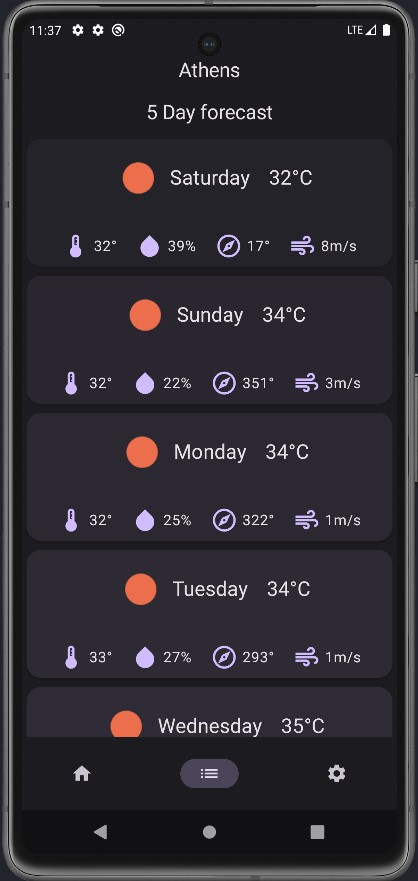
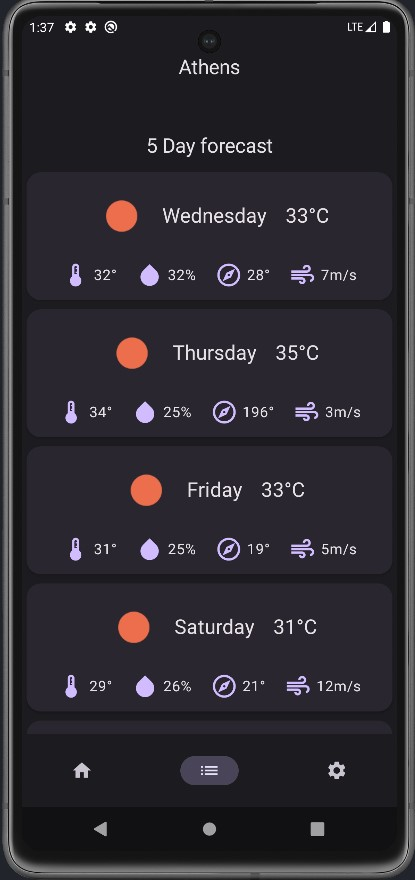
Minor UI changes to Forecast

diff --git a/app/src/main/java/com/example/weatherly/MainActivity.kt b/app/src/main/java/com/example/weatherly/MainActivity.kt
@@ -293,7 +293,6 @@ fun App(dataStore: DataStore, darkModeState: Boolean, cityState: String) {
                                     .zIndex(1f),
                                 backgroundColor = MaterialTheme.colorScheme.primary,
                                 contentColor = MaterialTheme.colorScheme.onPrimary)
-                            Spacer(modifier = Modifier.height(20.dp))
                             InputText(input = textFieldInput, onValueChange = { textFieldInput = it }) {
                                 runBlocking {
                                     dataStore.writeCity(textFieldInput)
@@ -399,14 +398,14 @@ fun Forecast(data: WeatherApi.ForecastJsonData, state: PullRefreshState, refresh
                 .zIndex(1f),
             backgroundColor = MaterialTheme.colorScheme.primary,
             contentColor = MaterialTheme.colorScheme.onPrimary)
-        Spacer(modifier = Modifier.weight(1f))
+        //Spacer(modifier = Modifier.weight(1f))
         Text("5 Day forecast", color = MaterialTheme.colorScheme.onSurface,
             style = MaterialTheme.typography.titleLarge)
         Spacer(modifier = Modifier.height(10.dp))
         for (j in 0..< icons.size) {
             ForecastItem(data, icons[j], j * 8, dayString[j], j)
         }
-        Spacer(modifier = Modifier.weight(1f))
+        //Spacer(modifier = Modifier.weight(1f))
     }
 }
 
@@ -414,17 +413,19 @@ fun Forecast(data: WeatherApi.ForecastJsonData, state: PullRefreshState, refresh
 fun ForecastItem(data: WeatherApi.ForecastJsonData, icon: Int, it: Int, day: String, j: Int) {
     Surface(shape = MaterialTheme.shapes.large,
         shadowElevation = 2.dp,
-        color = MaterialTheme.colorScheme.surfaceColorAtElevation((j + 1).dp),
+        color = MaterialTheme.colorScheme.surfaceColorAtElevation(2.dp),
+        //color = MaterialTheme.colorScheme.surfaceColorAtElevation((j + 1).dp),
         modifier = Modifier
             .fillMaxWidth()
             .padding(5.dp)
             .height(140.dp)) {
-        Column(verticalArrangement = Arrangement.SpaceEvenly) {
+        Column(verticalArrangement = Arrangement.SpaceEvenly, modifier = Modifier.padding(10.dp)) {
             Row(verticalAlignment = Alignment.CenterVertically,
                 horizontalArrangement = Arrangement.Center,
                 modifier = Modifier.fillMaxWidth()) {
                 Image(painter = painterResource(id = icon),
                     contentDescription = "Weather", modifier = Modifier.size(70.dp))
+                Spacer(modifier = Modifier.width(10.dp))
                 Text(day, fontSize = MaterialTheme.typography.titleLarge.fontSize, color = MaterialTheme.colorScheme.onSurface)
                 Spacer(modifier = Modifier.width(20.dp))
                 Text(data.list[it].main.temp.roundToInt().toString() + "°C",
@@ -788,15 +789,16 @@ fun AppPreview() {
     }
 }
 
-//@OptIn(ExperimentalMaterialApi::class)
-//@Preview(showBackground = true, name = "Dark theme", uiMode = UI_MODE_NIGHT_YES)
-//@Composable
-//fun ForecastPreview() {
-//    WeatherlyTheme {
-//        Surface(
-//            color = MaterialTheme.colorScheme.background
-//        ) {
-//            Forecast(data = WeatherApi.forecastDummyData())
-//        }
-//    }
-//}
+@OptIn(ExperimentalMaterialApi::class)
+@Preview(showBackground = true, name = "Dark theme", uiMode = UI_MODE_NIGHT_YES)
+@Composable
+fun ForecastPreview() {
+    val state = rememberPullRefreshState(false, onRefresh = { })
+    WeatherlyTheme {
+        Surface(
+            color = MaterialTheme.colorScheme.background
+        ) {
+            Forecast(data = WeatherApi.forecastDummyData(), state, false)
+        }
+    }
+}
